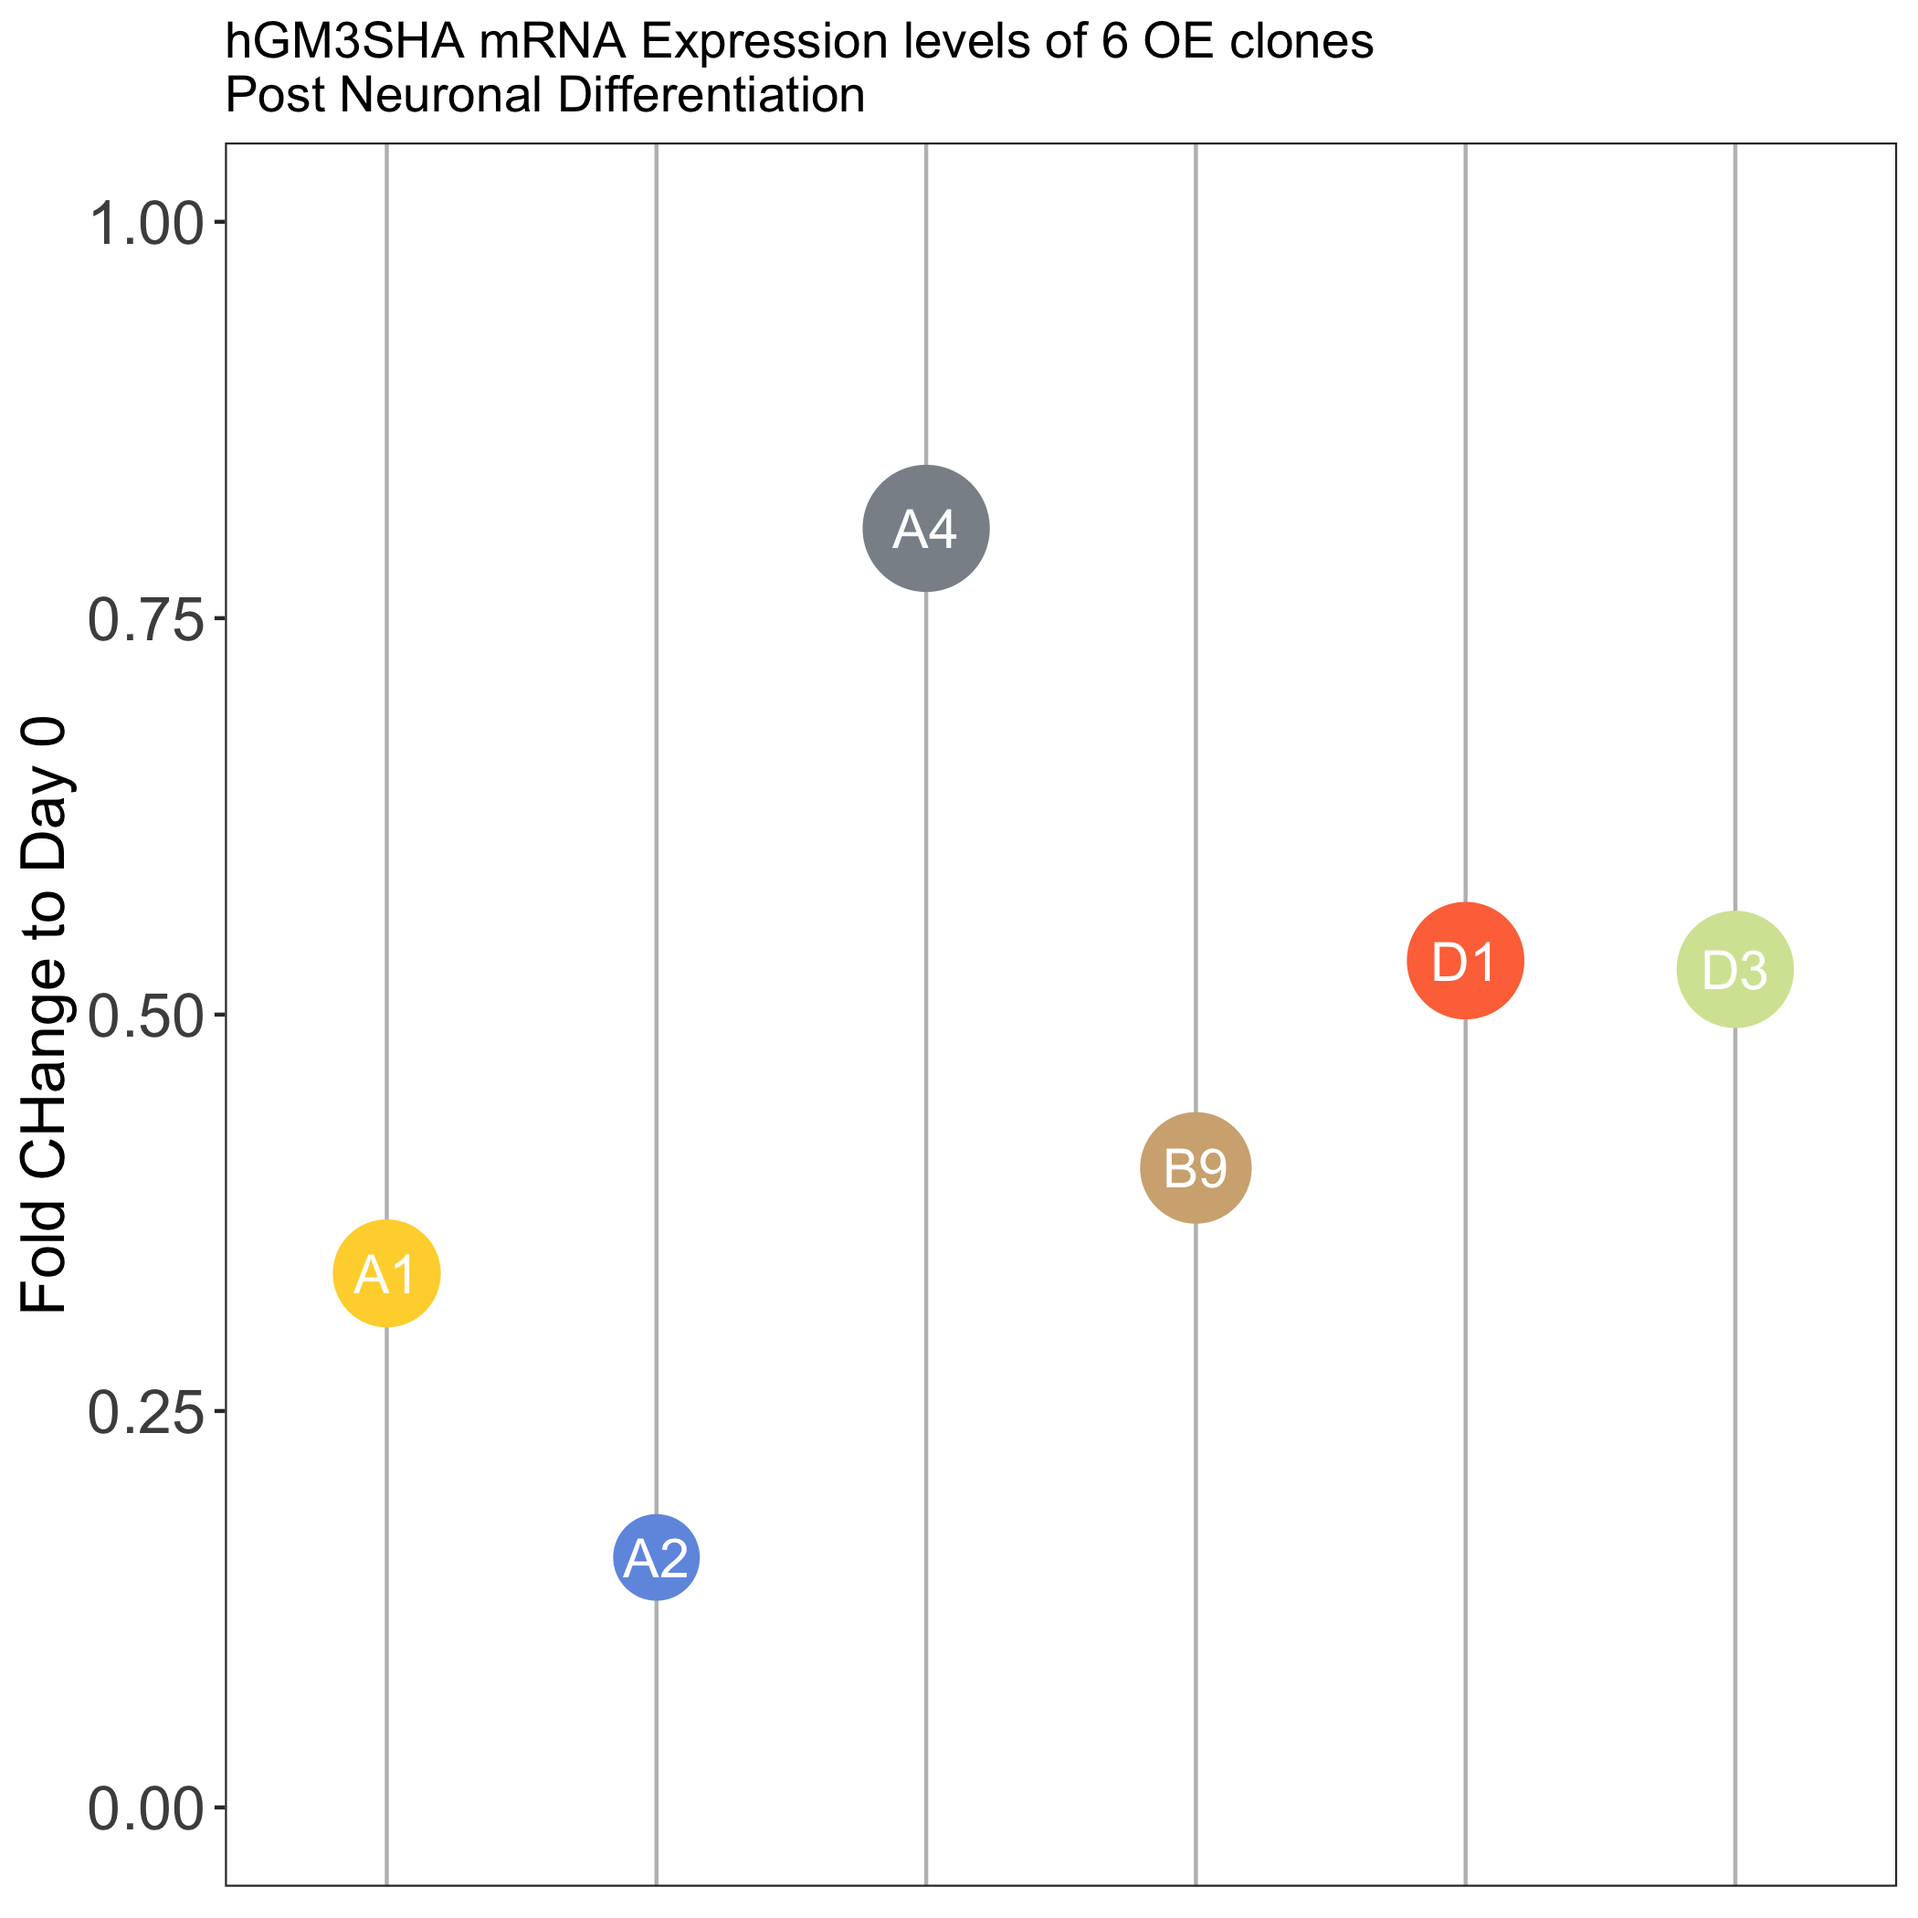
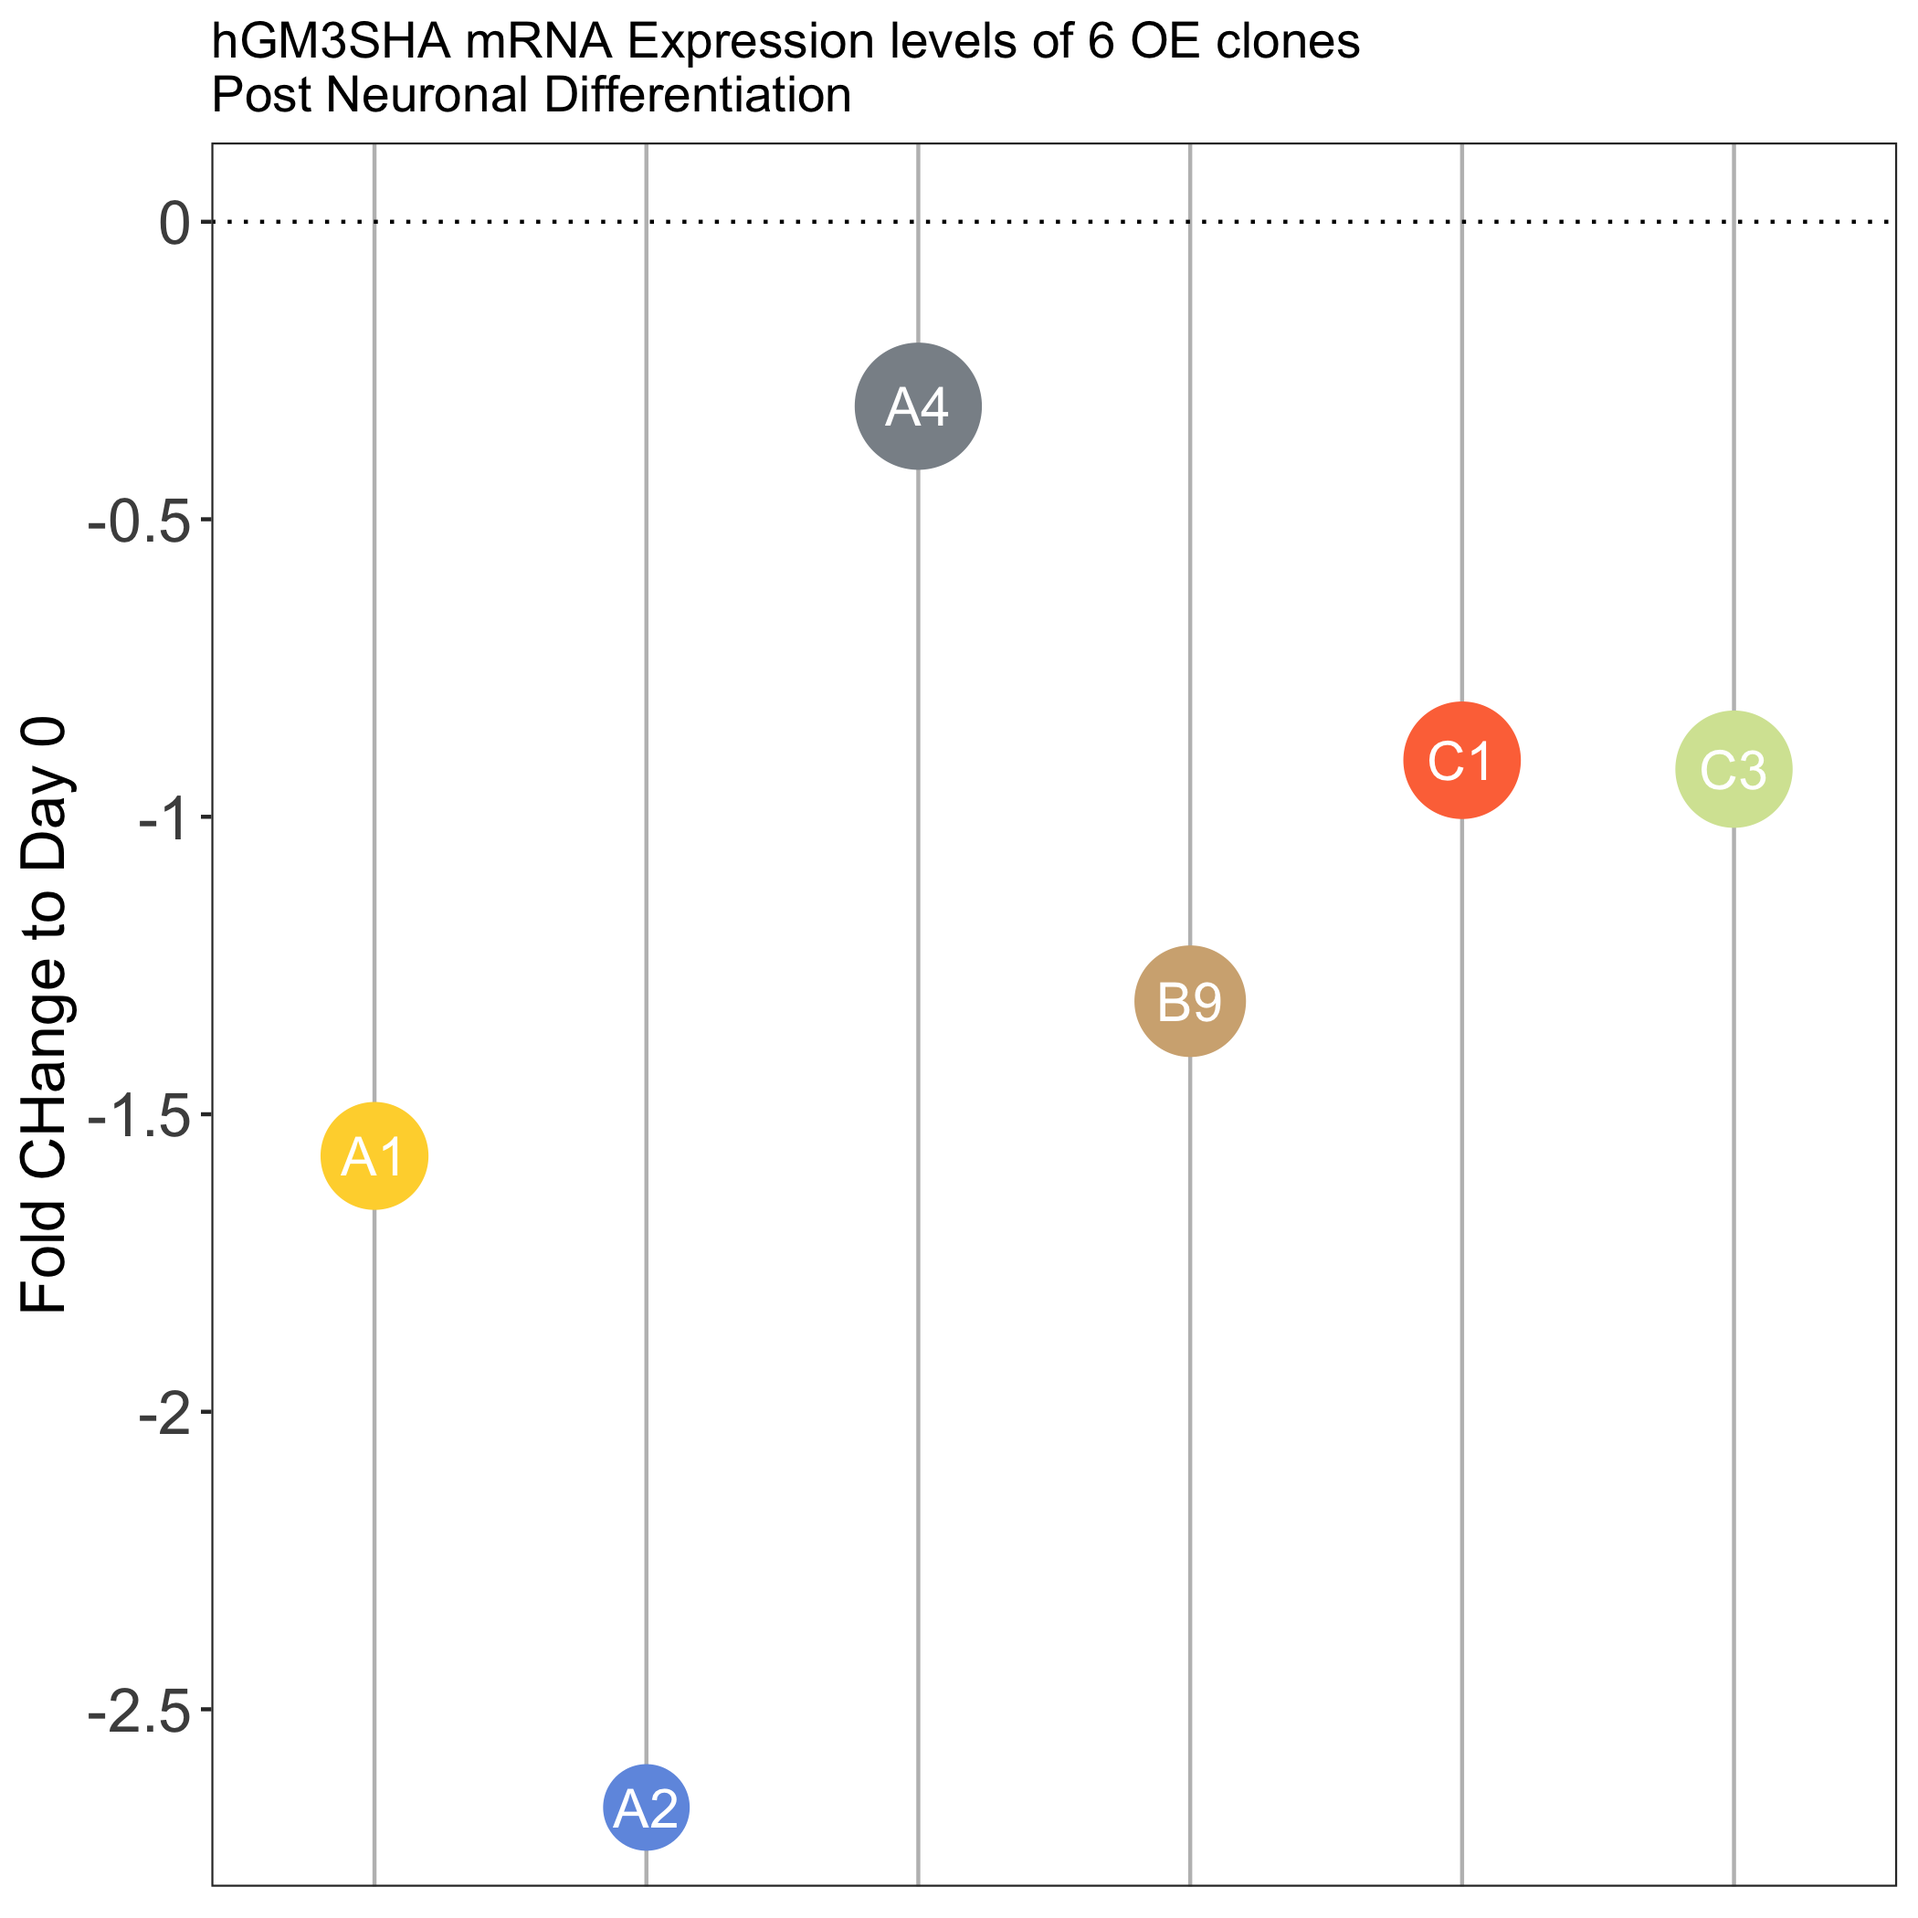
asdasdasd

diff --git a/public/index.html b/public/index.html
@@ -91,6 +91,8 @@
 <p><em>mouse</em> E14 Embryonic stem cells over-expressing <em>human</em> GM3S tagged with HA were differentiated to neuronal cell fate.</p>
 </blockquote>
 </section><section>
+<img src="/./_index_files/GM3SHAallclonesmRNA.png" alt="" width="65%" height="65%"/>
+</section><section>
 <h1 id="hgm3sha-oe-clone-b9-neuronal-differentiation">hGM3SHA OE Clone B9 Neuronal Differentiation</h1>
 </section><section>
 <img src="/./_index_files/ALLB9ESandDay13.png" alt="" width="65%" height="65%"/>

diff --git a/content/_index.md b/content/_index.md
@@ -52,6 +52,10 @@ reveal_hugo:
 
 ---
 
+<img src="/./_index_files/GM3SHAallclonesmRNA.png" alt="" width="65%" height="65%"/>
+
+---
+
 # hGM3SHA OE Clone B9 Neuronal Differentiation
 
 ---
